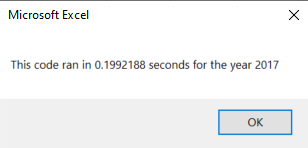
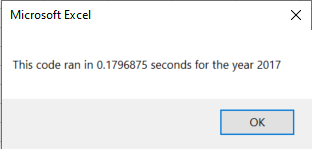
feat: revised README

diff --git a/README.md b/README.md
@@ -1,10 +1,10 @@
-# stocks-analysis
+# All Stocks Analysis
 
 ## Overview of Project
 
 ### Purpose
 
-###### The purpose of Module Two and the Stocks Analysis Challenge is to learn how to write and execute code in Visual Basic for Applications (VBA), how to refactor code in VBA, and the benefits of refactoring code in VBA.  For the Stocks Analysis Challenge, the original All Stocks Analysis code was refactored primarily by introducing tickerIndex as a variable. 
+###### The purpose of Module Two and the All Stocks Analysis Refactored Challenge is to learn how to write and execute code in Visual Basic for Applications (VBA), how to refactor code in VBA, and the benefits of refactoring code in VBA.  For the All Stocks Analysis Refactored Challenge, the original All Stocks Analysis code was refactored primarily by introducing tickerIndex as a variable and using it to loop through multiple arrays. 
 
 ## Results
 
@@ -75,4 +75,4 @@
 
 ## Summary
 
-###### In summary, advantages and disadvantages of refactoring code exist and in my opinion, exist on a case-by-case basis.  For example, an advantage of refactoring the All Stocks Analysis code improved the run time by approximately 79% allowing the user the benefit of time-efficiency. However a disadvantage of refactoring code would present itself if the original code did not include sufficient comments for the person refactoring the code.  Another disadvantage could exist if the person refactoring the code is not knowledgeable of how to successfully refactor the code therefore making the new code unusable.
+###### In summary, advantages and disadvantages of refactoring code exist and in my opinion, exist on a case-by-case basis.  For example, an advantage of refactoring the All Stocks Analysis code improved the run time by approximately 79% allowing the user the benefit of time-efficiency. However disadvantages of refactoring code are possible if sufficient comments are not used in the original script. This would make it difficult for a new person to refactor the original code because they might not be familiar with the original code's intent. Also it is possible for a new person refactoring the code to change the desired output of the script or break it completely. These pros and cons apply to the All Stocks Analysis Challenge because the elapsed run time definitely improved from .97 seconds run time to .20 seconds run time. As a new user of VBA, it was a difficult challenge for me to originally refactor the All Stocks Analysis code. There were countless days where the refactored code would not work and therefore making it impossible to run the analysis on the 2017 and 2018 stock data.  Finally, and with great help and support from my tutor, Mark Fullton, I persevered and was able to identify the gaps in my refactored script. 
